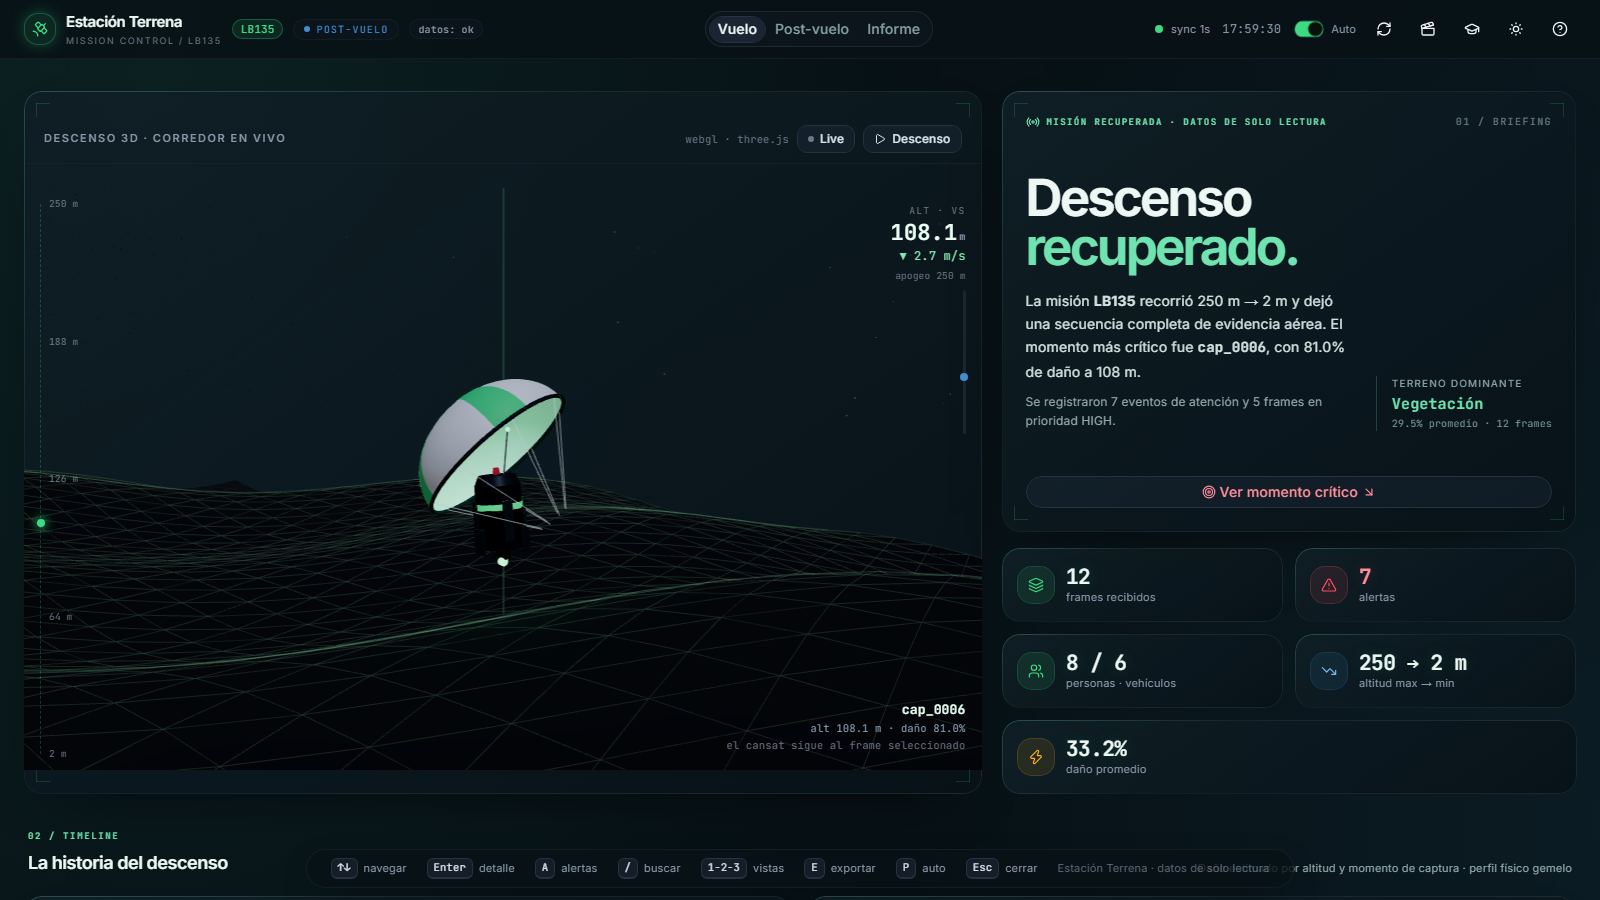
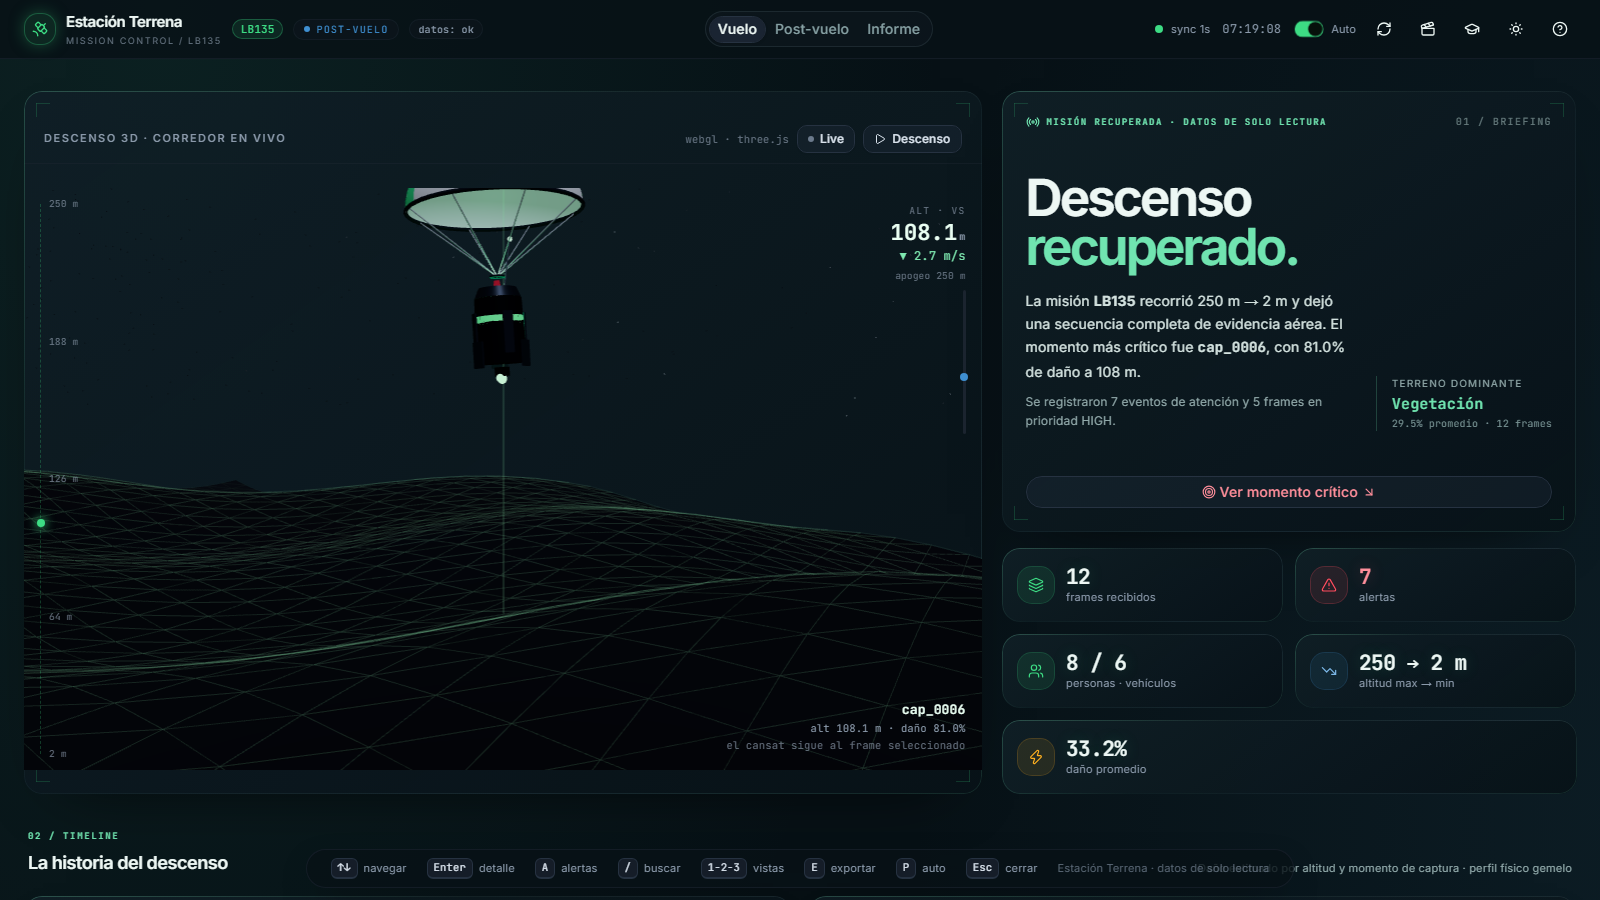
Paracaídas 3D arreglado: cuerdas visibles y anclaje real al CanSat
Problema (visto en 01_ops_hero.png): las cuerdas eran LineSegments de 1 px que
terminaban dentro de la silueta del cuerpo (radio 0.3 < 0.42) y el domo y el
cuerpo oscilaban por separado: no parecían sostener nada. Al aterrizar, además,
las cuerdas (hijas del domo) quedaban bajo tierra.

- Cuerdas como cilindros finos (8×, radio 0.012, opacidad 0.92) que convergen
  en un anillo de hardpoint visible sobre el cuerpo (y=0.95).
- Grupo "chute" único (domo+cuerdas+cuerpo): sway compartido y contrapeso
  pendular leve del cuerpo → los extremos no se separan nunca.
- Plegado (ascenso): domo scale 0.14 y cuerdas se desvanecen.
- Aterrizado: el paracaídas se colapsa sobre el cuerpo (scale 0.22, y=0.55) en
  vez de hundirse; cuerdas desvanecidas.
- El estado sigue al FRAME que se mira (alt del foco), no al resumen de la
  misión: en post-vuelo, viendo un frame de descenso a 108 m, el paracaídas
  aparece desplegado con las cuerdas (era el bug de fondo).
- Capturas de la estación regeneradas (01_ops_hero con el paracaídas correcto).
Smoke E2E verde.

Changed region(s): [[0.25, 0.1867, 0.375, 0.5911]]

diff --git a/EstacionTerrena_MuestreoDeDatos/web-app/src/components/scene/DescentScene.tsx b/EstacionTerrena_MuestreoDeDatos/web-app/src/components/scene/DescentScene.tsx
@@ -58,60 +58,98 @@ function useStars() {
   }, [])
 }
 
-/* Cuerdas: del BORDE del domo (r=1.55, y=0) a los anclajes del cuerpo. */
-function useStrings() {
+/* Cuerdas: del BORDE del domo (r=1.53) al anillo de anclaje sobre el cuerpo.
+   ⚠ Antes eran LineSegments de 1 px que terminaban DENTRO de la silueta del
+   cuerpo (radio 0.3 < 0.42) y el domo/cuerpo oscilaban por separado: no
+   parecían sostener nada. Ahora son cilindros finos (visibles), convergen en
+   un hardpoint real y viven en el MISMO grupo que el domo y el cuerpo, así
+   que los extremos no se separan nunca. */
+const DOME_Y = 2.08        // altura del borde del domo (espacio del conjunto)
+const RIM_R = 1.53         // radio del borde del domo
+const HARD_Y = 0.95        // altura del anillo de anclaje sobre el cuerpo
+const N_CUERDAS = 8
+
+function useCuerdas() {
   return useMemo(() => {
-    const pts: number[] = []
-    const N = 8
-    for (let i = 0; i < N; i++) {
-      const a = (i / N) * Math.PI * 2
-      pts.push(
-        Math.cos(a) * 1.53, 0.02, Math.sin(a) * 1.53,
-        Math.cos(a) * 0.3, -1.52, Math.sin(a) * 0.3,
-      )
+    const out: { pos: [number, number, number]; rot: [number, number, number]; len: number }[] = []
+    const up = new THREE.Vector3(0, 1, 0)
+    const bot = new THREE.Vector3(0, HARD_Y, 0)
+    for (let i = 0; i < N_CUERDAS; i++) {
+      const a = (i / N_CUERDAS) * Math.PI * 2
+      const top = new THREE.Vector3(Math.cos(a) * RIM_R, DOME_Y, Math.sin(a) * RIM_R)
+      const mid = top.clone().add(bot).multiplyScalar(0.5)
+      const dir = bot.clone().sub(top)
+      const len = dir.length()
+      const q = new THREE.Quaternion().setFromUnitVectors(up, dir.normalize())
+      const e = new THREE.Euler().setFromQuaternion(q)
+      out.push({ pos: [mid.x, mid.y, mid.z], rot: [e.x, e.y, e.z], len })
     }
-    const g = new THREE.BufferGeometry()
-    g.setAttribute('position', new THREE.Float32BufferAttribute(pts, 3))
-    return new THREE.LineSegments(
-      g,
-      new THREE.LineBasicMaterial({ color: '#aebdcd', transparent: true, opacity: 0.65 }),
-    )
+    return out
   }, [])
 }
 
 /* ── CanSat detallado ──────────────────────────────────────────────────── */
 function CanSat({ stowed, landed }: { stowed: boolean; landed: boolean }) {
   const beacon = useRef<THREE.MeshStandardMaterial>(null)
-  const canopy = useRef<THREE.Group>(null)
+  const chute = useRef<THREE.Group>(null)     // sway del conjunto (domo+cuerdas+cuerpo)
+  const dome = useRef<THREE.Group>(null)      // domo: despliegue (scale) y colapso
+  const cuerdas = useRef<THREE.Group>(null)   // opacidad de las cuerdas
   const body = useRef<THREE.Group>(null)
+  const segs = useCuerdas()
 
   useFrame((st, dt) => {
     const t = st.clock.elapsedTime
     if (beacon.current) beacon.current.emissiveIntensity = Math.sin(t * 7) > 0.2 ? 3.2 : 0.25
-    if (canopy.current) {
-      const targetScale = stowed ? 0.14 : 1
-      const sc = THREE.MathUtils.damp(canopy.current.scale.x, targetScale, 3, dt)
-      canopy.current.scale.set(sc, sc, sc)
-      canopy.current.rotation.z = THREE.MathUtils.damp(canopy.current.rotation.z, landed ? 0.9 : Math.sin(t * 0.7) * 0.045, 2, dt)
-      canopy.current.rotation.x = Math.cos(t * 0.55) * 0.035
-      canopy.current.position.y = THREE.MathUtils.damp(canopy.current.position.y, landed ? 0.9 : 2.08, 2, dt)
+    // El CONJUNTO entero oscila: los extremos de las cuerdas no se separan.
+    if (chute.current) {
+      chute.current.rotation.z = THREE.MathUtils.damp(
+        chute.current.rotation.z, Math.sin(t * 0.5) * 0.05, 2, dt)
+      chute.current.rotation.x = Math.cos(t * 0.42) * 0.035
+    }
+    if (dome.current) {
+      // Desplegado: scale 1 a y=2.08. Plegado (ascenso): scale 0.14.
+      // Aterrizado: el paracaídas se colapsa SOBRE el cuerpo (no bajo tierra).
+      const targetScale = stowed ? 0.14 : landed ? 0.22 : 1
+      const sc = THREE.MathUtils.damp(dome.current.scale.x, targetScale, 3, dt)
+      dome.current.scale.set(sc, sc, sc)
+      dome.current.position.y = THREE.MathUtils.damp(
+        dome.current.position.y, landed ? 0.55 : DOME_Y, 2, dt)
+    }
+    // Cuerdas: visibles en descenso; se desvanecen plegadas o aterrizado.
+    if (cuerdas.current) {
+      const targetOp = stowed || landed ? 0 : 0.92
+      cuerdas.current.traverse(o => {
+        const m = (o as THREE.Mesh).material as THREE.MeshStandardMaterial | undefined
+        if (m && 'opacity' in m) m.opacity = THREE.MathUtils.damp(m.opacity, targetOp, 4, dt)
+      })
     }
     if (body.current) {
-      body.current.rotation.z = Math.sin(t * 0.5 + 1.2) * 0.06
-      body.current.rotation.x = Math.cos(t * 0.42 + 0.6) * 0.04
+      // Contrapeso pendular leve (los anclajes viven en el grupo del conjunto).
+      body.current.rotation.z = Math.sin(t * 0.5 + 1.2) * 0.015
+      body.current.rotation.x = Math.cos(t * 0.42 + 0.6) * 0.012
     }
   })
 
-  const strings = useStrings()
-  useEffect(() => () => {
-    strings.geometry.dispose()
-    ;(strings.material as THREE.Material).dispose()
-  }, [strings])
-
   return (
-    <group>
-      {/* ─ paracaídas: domo + borde + ventral + cuerdas ─ */}
-      <group ref={canopy} position={[0, 2.08, 0]}>
+    <group ref={chute}>
+      {/* anillo de anclaje: donde convergen las cuerdas, sobre el cuerpo */}
+      <mesh position={[0, HARD_Y, 0]} rotation-x={Math.PI / 2}>
+        <torusGeometry args={[0.12, 0.022, 8, 24]} />
+        <meshStandardMaterial color="#22303f" roughness={0.5} metalness={0.4} />
+      </mesh>
+
+      {/* cuerdas: cilindros finos del borde del domo al anillo */}
+      <group ref={cuerdas}>
+        {segs.map((s, i) => (
+          <mesh key={i} position={s.pos} rotation={s.rot}>
+            <cylinderGeometry args={[0.012, 0.012, s.len, 6]} />
+            <meshStandardMaterial color="#cfd9e6" metalness={0.45} roughness={0.4} transparent opacity={0.92} />
+          </mesh>
+        ))}
+      </group>
+
+      {/* ─ paracaídas: domo + borde + ventral ─ */}
+      <group ref={dome} position={[0, DOME_Y, 0]}>
         <mesh scale={[1, 0.78, 1]}>
           <sphereGeometry args={[1.55, 36, 18, 0, Math.PI * 2, 0, Math.PI / 2]} />
           <meshStandardMaterial color="#e9eff7" roughness={0.55} metalness={0.05} side={THREE.DoubleSide} />
@@ -131,7 +169,6 @@ function CanSat({ stowed, landed }: { stowed: boolean; landed: boolean }) {
           <torusGeometry args={[0.26, 0.03, 8, 24]} />
           <meshStandardMaterial color="#22303f" roughness={0.5} />
         </mesh>
-        <primitive object={strings} />
       </group>
 
       {/* ─ cuerpo del cansat ─ */}
@@ -353,7 +390,10 @@ export function DescentScene() {
   const ticks = [1, 0.75, 0.5, 0.25, 0].map(p => Math.round(altMin + (altMax - altMin) * p))
   const phase = missionPhase(frames, summary)
   const stowed = phase.id === 'ascenso' || phase.id === 'sin-tlm'
-  const landed = phase.id === 'aterrizado' || phase.id === 'post-vuelo'
+  // El paracaídas sigue al FRAME que se está mirando (focus), no al resumen de
+  // la misión: en post-vuelo se puede estar viendo un frame de descenso a
+  // 108 m y debe verse desplegado con las cuerdas sosteniendo el CanSat.
+  const landed = alt <= 3
   const vs = verticalSpeed(frames)
   const apo = apogeo(frames)
   const anomala = tasaAnomala(phase.id, vs)
